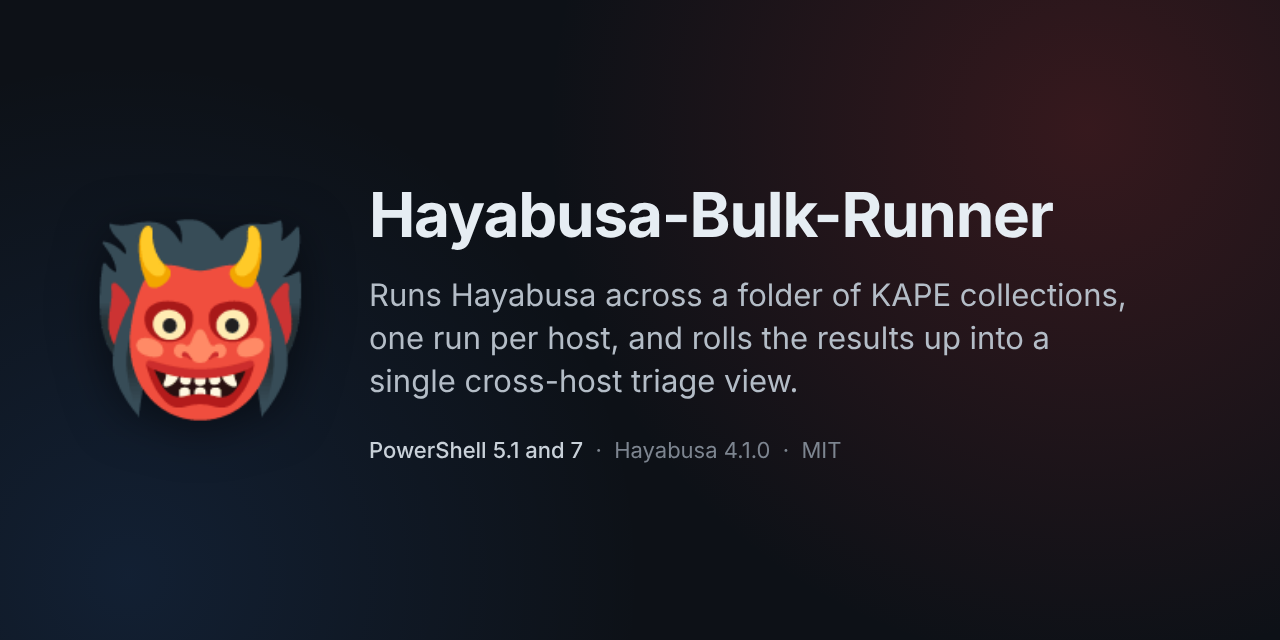
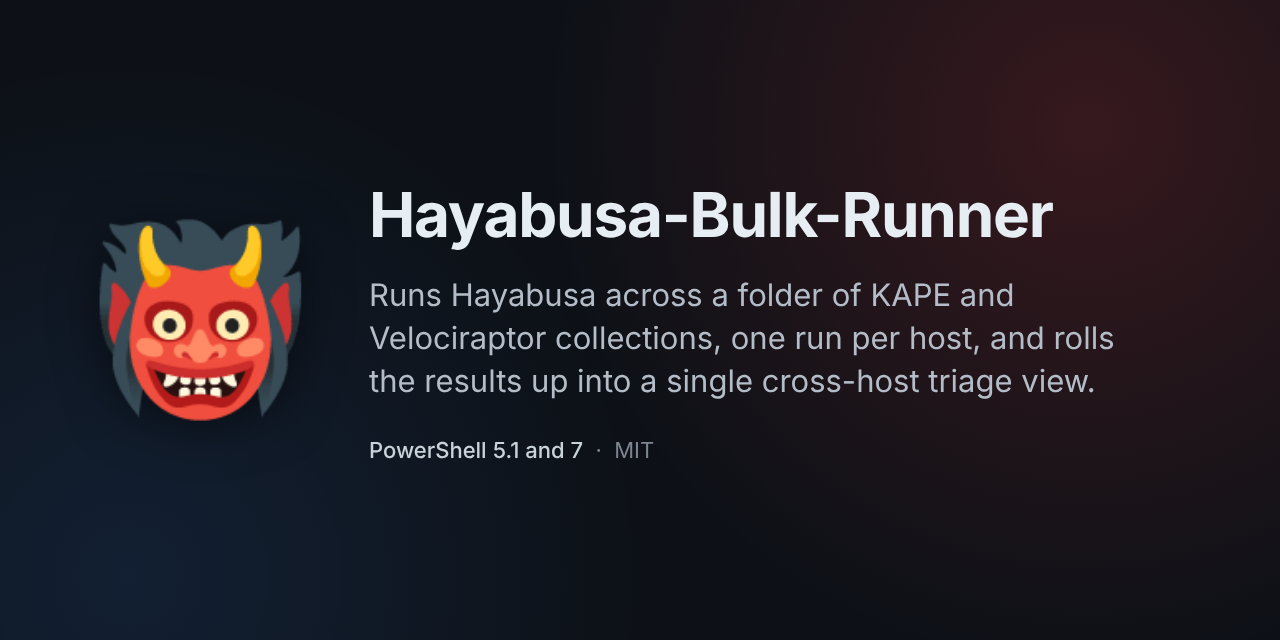
Refresh the console screenshot and social preview for 0.11.0 (#42)
The console screenshot in the README still showed the one-line-per-host output from before 0.11.0, so this replaces it with the new layout, from the run header and Before the run block through a block per host with a line for each step to the summary table at the end. Every line comes from a real run of 0.11.0 against synthetic collections, with made-up host names on a made-up domain, and the image keeps the "Sample output, synthetic data" badge. The README's alt text for it is updated to match.

The social preview now mentions Velociraptor collections alongside KAPE, and the Hayabusa version is gone from its footer so it doesn't need redoing every time a new Hayabusa release is tested.

Both images are stripped of metadata and losslessly compressed. This is docs only, so nothing in the CHANGELOG changes.

Changed region(s): [[0.2812, 0.4375, 0.875, 0.625], [0.4688, 0.6875, 0.5938, 0.7188], [0.625, 0.6875, 0.6562, 0.7188]]

diff --git a/README.md b/README.md
@@ -25,7 +25,7 @@ The dashboard after a run over eight hosts, with the severity floor at medium:
 
 The console during the same run:
 
-![Console output of a run: a warning for a ZIP the tool can't extract, one progress line per host and the end-of-run summary](docs/images/console.png)
+![Console output of a run, starting with a header and a Before the run block that flags a ZIP the tool can't extract, then a block per host with a line for each step and its time, and ending with the summary table and where the dashboards and run log are](docs/images/console.png)
 
 The host identity dashboard, over a six-host domain, with one workstation's other interfaces and its built-in and system accounts unfolded:
 
